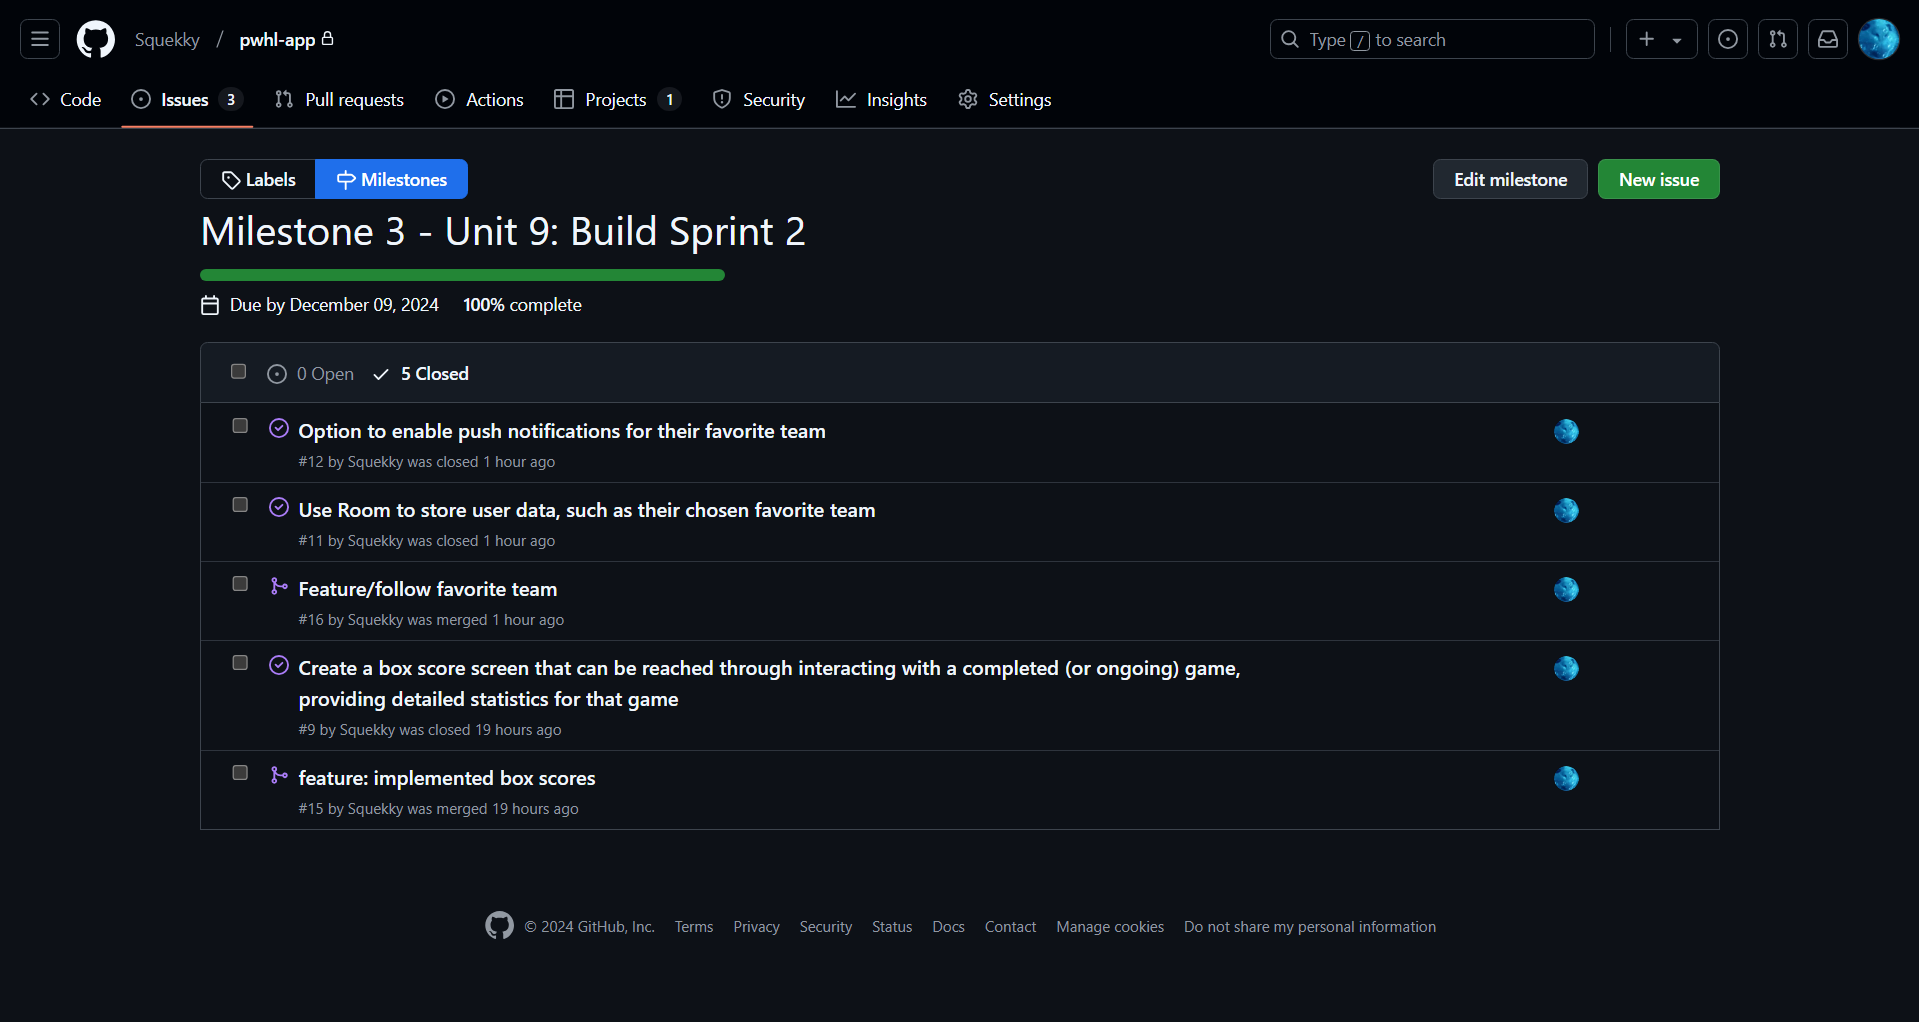
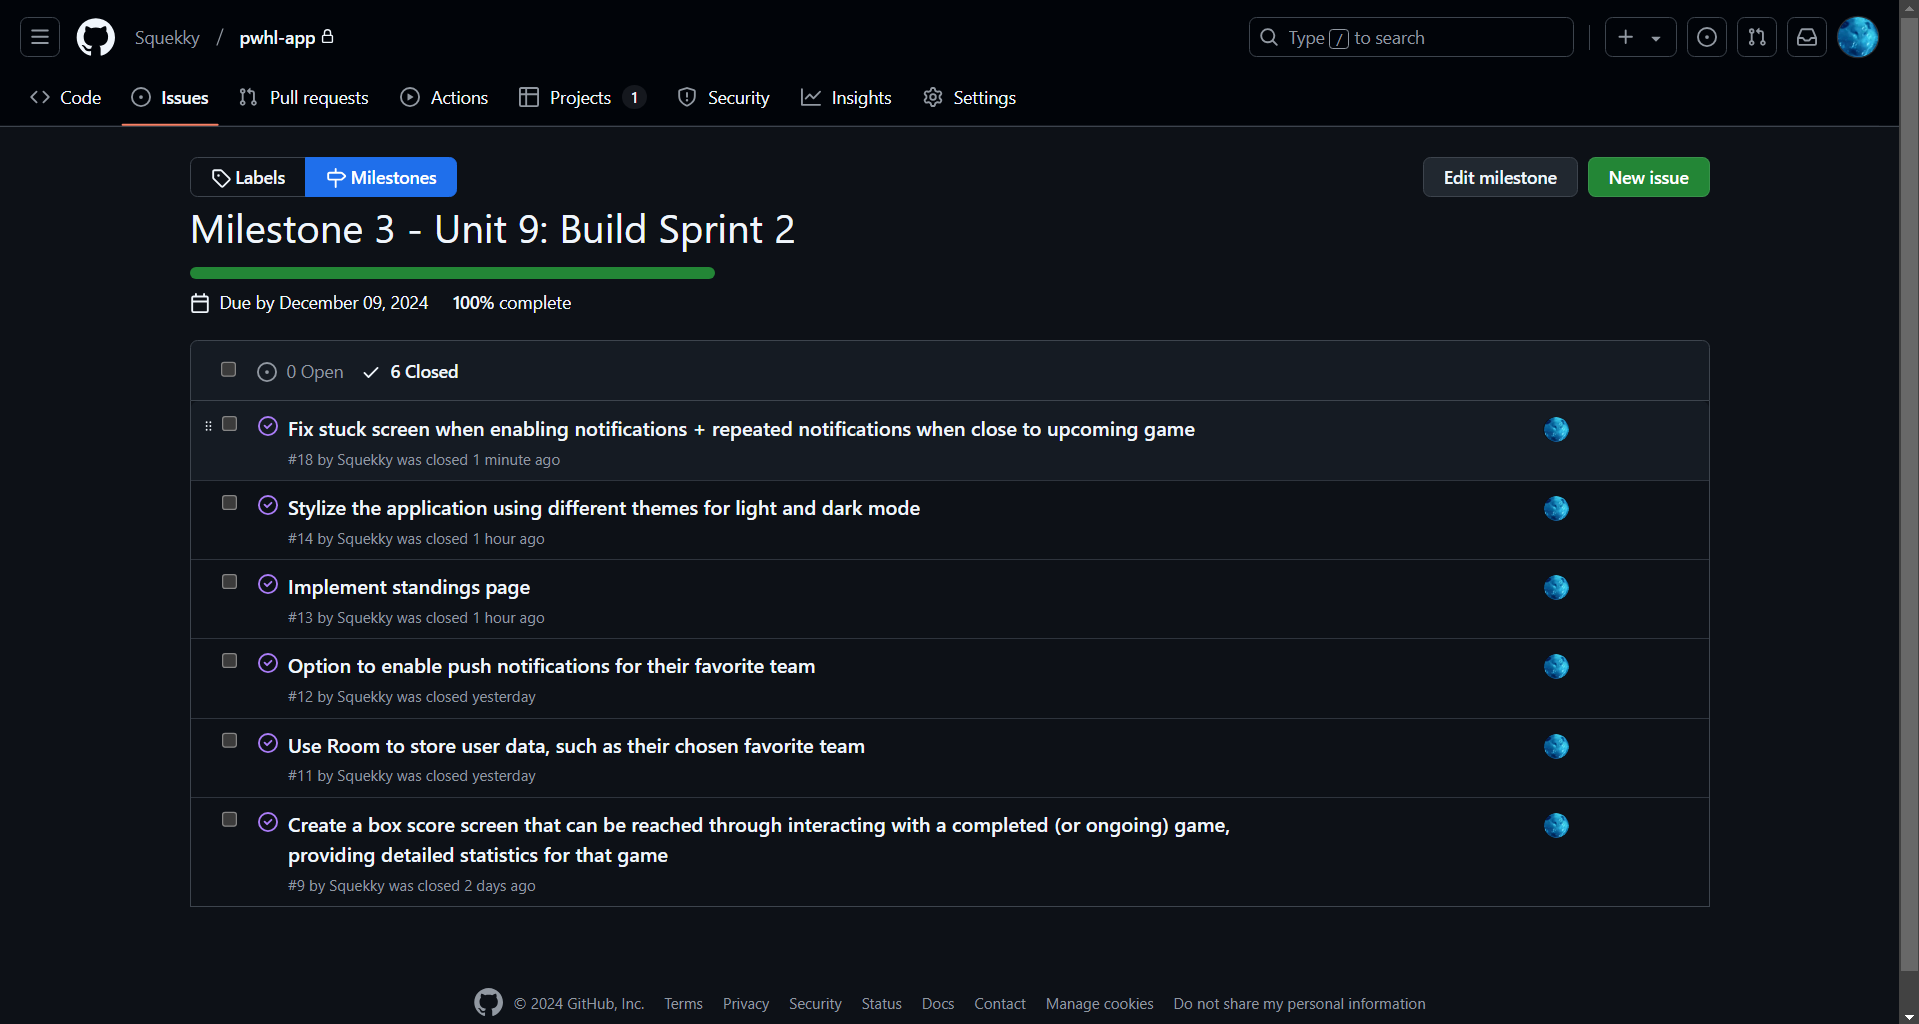
fix: fixed the requesting of permissions for notifications

diff --git a/app/src/main/java/com/example/nichenhl/SettingsFragment.kt b/app/src/main/java/com/example/nichenhl/SettingsFragment.kt
@@ -1,5 +1,6 @@
 package com.example.nichenhl
 
+import android.app.Activity
 import android.content.Context
 import android.os.Build
 import android.os.Bundle
@@ -14,8 +15,12 @@ import android.app.AlarmManager
 import android.app.PendingIntent
 import android.content.Intent
 import android.content.SharedPreferences
+import android.content.pm.PackageManager
 import android.provider.Settings
 import android.util.Log
+import android.widget.Toast
+import androidx.activity.result.contract.ActivityResultContracts
+import androidx.core.content.ContextCompat
 import androidx.lifecycle.lifecycleScope
 import kotlinx.coroutines.Dispatchers
 import kotlinx.coroutines.launch
@@ -24,14 +29,12 @@ import java.util.Calendar
 import java.util.Locale
 
 private const val TAG = "SettingsFragment"
-private const val NOTIFICATION_PERMISSION_REQUEST_CODE = 1001
 
 class SettingsFragment : Fragment() {
     private lateinit var notificationSwitch: SwitchCompat
     private lateinit var database: AppDatabase
     private lateinit var sharedPreferences: SharedPreferences
     private var notificationsScheduled = false
-    private var permissionCheckInProgress = false
     private val teams = listOf(
         Team("None", R.drawable.baseline_sports_hockey_24),
         Team("Boston Fleet", R.drawable.bostonfleet),
@@ -41,6 +44,25 @@ class SettingsFragment : Fragment() {
         Team("Ottawa Charge", R.drawable.ottawacharge),
         Team("Toronto Sceptres", R.drawable.torontosceptres)
     )
+
+    private val requestPermissionLauncher = registerForActivityResult(ActivityResultContracts.RequestPermission()) { isGranted: Boolean ->
+        if (isGranted) {
+            Log.d(TAG, "Notification permission granted.")
+            checkAndRequestExactAlarmPermission(false) // Request alarm permission right after notification permission is granted
+        } else {
+            Log.d(TAG, "Notification permission denied.")
+            Toast.makeText(context, "Notification permission denied. Check your device settings.", Toast.LENGTH_SHORT).show()
+            notificationSwitch.isChecked = false // Reset the switch if denied
+        }
+    }
+
+    private val requestExactAlarmPermissionLauncher = registerForActivityResult(ActivityResultContracts.StartActivityForResult()) { result ->
+        notificationSwitch.isChecked = false
+        if (result.resultCode == Activity.RESULT_CANCELED) {
+            // Check if they enabled alarms again
+            checkAndRequestExactAlarmPermission(true)
+        }
+    }
 
     override fun onCreateView(
         inflater: LayoutInflater, container: ViewGroup?,
@@ -52,7 +74,8 @@ class SettingsFragment : Fragment() {
 
         // Spinner
         val teamSpinner: Spinner = view.findViewById(R.id.selectTeamSpinner)
-        sharedPreferences = requireContext().getSharedPreferences("AppPreferences", Context.MODE_PRIVATE)
+        sharedPreferences =
+            requireContext().getSharedPreferences("AppPreferences", Context.MODE_PRIVATE)
 
         // Get the saved team name or default to the first team (None)
         val savedTeamName = sharedPreferences.getString("selectedTeam", teams[0].name)
@@ -70,14 +93,19 @@ class SettingsFragment : Fragment() {
         // Save the selection when a new team is chosen
         teamSpinner.post {
             teamSpinner.onItemSelectedListener = object : AdapterView.OnItemSelectedListener {
-                override fun onItemSelected(parent: AdapterView<*>?, view: View?, position: Int, id: Long) {
+                override fun onItemSelected(
+                    parent: AdapterView<*>?,
+                    view: View?,
+                    position: Int,
+                    id: Long
+                ) {
                     val selectedTeamItem = teams[position]
                     with(sharedPreferences.edit()) {
                         putString("selectedTeam", selectedTeamItem.name)
                         apply()
                     }
 
-                    // Cancel scheduled notifications and reschedule for the new selected team
+                    // Cancel scheduled notifications and reschedule for new team
                     cancelAllScheduledAlarms()
                     if (selectedTeamItem.name != "None") {
                         notificationsScheduled = false
@@ -93,12 +121,12 @@ class SettingsFragment : Fragment() {
 
         // Notification switch
         notificationSwitch = view.findViewById(R.id.enableNotificationsSwitch)
-        notificationSwitch.isChecked = sharedPreferences.getBoolean("notificationsEnabled", true)
+        notificationSwitch.isChecked = sharedPreferences.getBoolean("notificationsEnabled", false)
         notificationSwitch.setOnCheckedChangeListener { _, isChecked ->
             sharedPreferences.edit().putBoolean("notificationsEnabled", isChecked).apply()
             if (isChecked) {
-                checkAndRequestExactAlarmPermission()
-            } else {
+                checkAndRequestPermissions()
+            } else {  // Cancel alarms when notifications are disabled
                 cancelAllScheduledAlarms()
                 notificationsScheduled = false
                 sharedPreferences.edit().putBoolean("notificationsEnabled", false).apply()
@@ -107,47 +135,36 @@ class SettingsFragment : Fragment() {
         return view
     }
 
-    private fun checkAndRequestExactAlarmPermission() {
-        if (Build.VERSION.SDK_INT >= Build.VERSION_CODES.S) {
-            val alarmManager = requireContext().getSystemService(AlarmManager::class.java)
-
-            if (!alarmManager.canScheduleExactAlarms()) {
-                // Request the user to grant the permission
-                val intent = Intent(Settings.ACTION_REQUEST_SCHEDULE_EXACT_ALARM)
-                permissionCheckInProgress = true // Mark permission check as in progress
-                startActivityForResult(intent, NOTIFICATION_PERMISSION_REQUEST_CODE)
+    private fun checkAndRequestPermissions() {
+        if (Build.VERSION.SDK_INT >= Build.VERSION_CODES.TIRAMISU) {
+            val notificationPermission = "android.permission.POST_NOTIFICATIONS"
+            if (ContextCompat.checkSelfPermission(requireContext(), notificationPermission) != PackageManager.PERMISSION_GRANTED) {
+                Log.d(TAG, "Requesting notification permissions")
+                requestPermissionLauncher.launch(notificationPermission)
                 return
             }
         }
-
-        proceedWithNotificationsIfEnabled()
+        Log.d(TAG, "Notification permission granted or not required")
+        checkAndRequestExactAlarmPermission(false)
     }
 
-    private fun proceedWithNotificationsIfEnabled() {
+    private fun checkAndRequestExactAlarmPermission(alreadyChecked: Boolean) {
+        val alarmManager = requireContext().getSystemService(AlarmManager::class.java)
+        if (!alarmManager.canScheduleExactAlarms()) {
+            if (alreadyChecked) return // Prevent users from an infinite loop
+            Log.d(TAG, "Requesting exact alarm permissions")
+            val intent = Intent(Settings.ACTION_REQUEST_SCHEDULE_EXACT_ALARM)
+            requestExactAlarmPermissionLauncher.launch(intent)
+            return
+        }
+
+        Log.d(TAG, "Exact alarm permission granted or not required")
         val selectedTeam = sharedPreferences.getString("selectedTeam", "None") ?: "None"
+        notificationSwitch.isChecked = true
         if (selectedTeam != "None") {
             checkAndNotifyForFavoriteTeam(selectedTeam)
         }
         notificationsScheduled = true
-    }
-
-    override fun onActivityResult(requestCode: Int, resultCode: Int, data: Intent?) {
-        super.onActivityResult(requestCode, resultCode, data)
-        if (requestCode == NOTIFICATION_PERMISSION_REQUEST_CODE) {
-            if (Build.VERSION.SDK_INT >= Build.VERSION_CODES.S) {
-                val alarmManager = requireContext().getSystemService(AlarmManager::class.java)
-
-                if (alarmManager.canScheduleExactAlarms()) {
-                    // Permission granted, enable notifications
-                    notificationSwitch.isChecked = true
-                    proceedWithNotificationsIfEnabled()
-                } else {
-                    // Permission denied, reset switch
-                    notificationSwitch.isChecked = false
-                }
-            }
-            permissionCheckInProgress = false // Reset the flag
-        }
     }
 
     private fun cancelAllScheduledAlarms() {
@@ -166,9 +183,8 @@ class SettingsFragment : Fragment() {
 
                     // Cancel the alarm
                     alarmManager.cancel(pendingIntent)
-                    Log.d(TAG, "Cancelled alarm for game with hash code: $gameHashCode")
-
                     sharedPreferences.edit().remove(entry.key).apply()
+                    Log.d(TAG, "Cancelled alarm for game with hash code: $gameHashCode")
                 }
             }
         }
@@ -183,47 +199,21 @@ class SettingsFragment : Fragment() {
 
         lifecycleScope.launch(Dispatchers.IO) {
             val gamesForTeam = database.gameDao().getGamesForTeam(favoriteTeam)
-            Log.d(TAG, "gamesForTeam: $gamesForTeam")
 
             if (gamesForTeam.isNotEmpty()) {
                 gamesForTeam.forEach { game ->
-                    scheduleNotificationForGame(game)
+                    scheduleNotification(game)
                 }
-                notificationsScheduled = true // Mark notifications as scheduled
+                notificationsScheduled = true
             } else {
                 Log.d(TAG, "No upcoming games for team: $favoriteTeam")
             }
         }
     }
 
-    private fun scheduleNotificationForGame(game: GameEntity) {
-        // Check if notifications are enabled and if exact alarm permission is granted
-        if (Build.VERSION.SDK_INT >= Build.VERSION_CODES.S) {
-            val alarmManager = requireContext().getSystemService(AlarmManager::class.java)
-
-            // Check if the app has permission to schedule exact alarms
-            if (!alarmManager.canScheduleExactAlarms()) {
-                // Request the user to grant the permission
-                val intent = Intent(Settings.ACTION_REQUEST_SCHEDULE_EXACT_ALARM)
-                startActivityForResult(intent, NOTIFICATION_PERMISSION_REQUEST_CODE)
-                return
-            }
-        }
-        proceedWithNotificationScheduling(game)
-    }
-
-    private fun proceedWithNotificationScheduling(game: GameEntity) {
-        if (Build.VERSION.SDK_INT >= Build.VERSION_CODES.S) {
-            val alarmManager = requireContext().getSystemService(AlarmManager::class.java)
-
-            if (!alarmManager.canScheduleExactAlarms()) {
-                // Permission not granted
-                return
-            }
-        }
+    private fun scheduleNotification(game: GameEntity) {
         val sharedPreferences = requireContext().getSharedPreferences("scheduled_alarms", Context.MODE_PRIVATE)
 
-        // Continue with scheduling if notifications are enabled
         val gameStartTime = game.startTime
         val calendar = Calendar.getInstance()
         val format = SimpleDateFormat("yyyy-MM-dd'T'HH:mm:ssXXX", Locale.getDefault())
@@ -232,7 +222,7 @@ class SettingsFragment : Fragment() {
         if (gameTime != null && gameTime.after(calendar.time)) {
             // Schedule the notification 15 minutes before the game
             calendar.time = gameTime
-            calendar.add(Calendar.SECOND, -863900)
+            calendar.add(Calendar.MINUTE, -15)
 
             val alarmManager = requireContext().getSystemService(Context.ALARM_SERVICE) as AlarmManager
             val intent = Intent(requireContext(), NotificationReceiver::class.java).apply {
